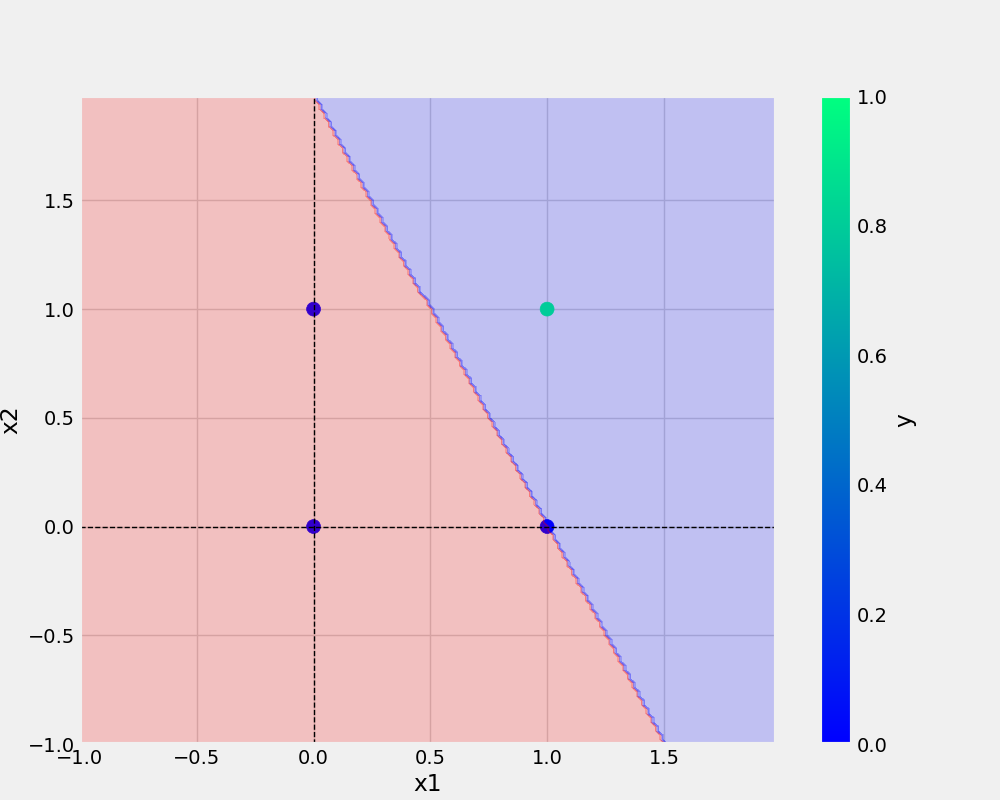
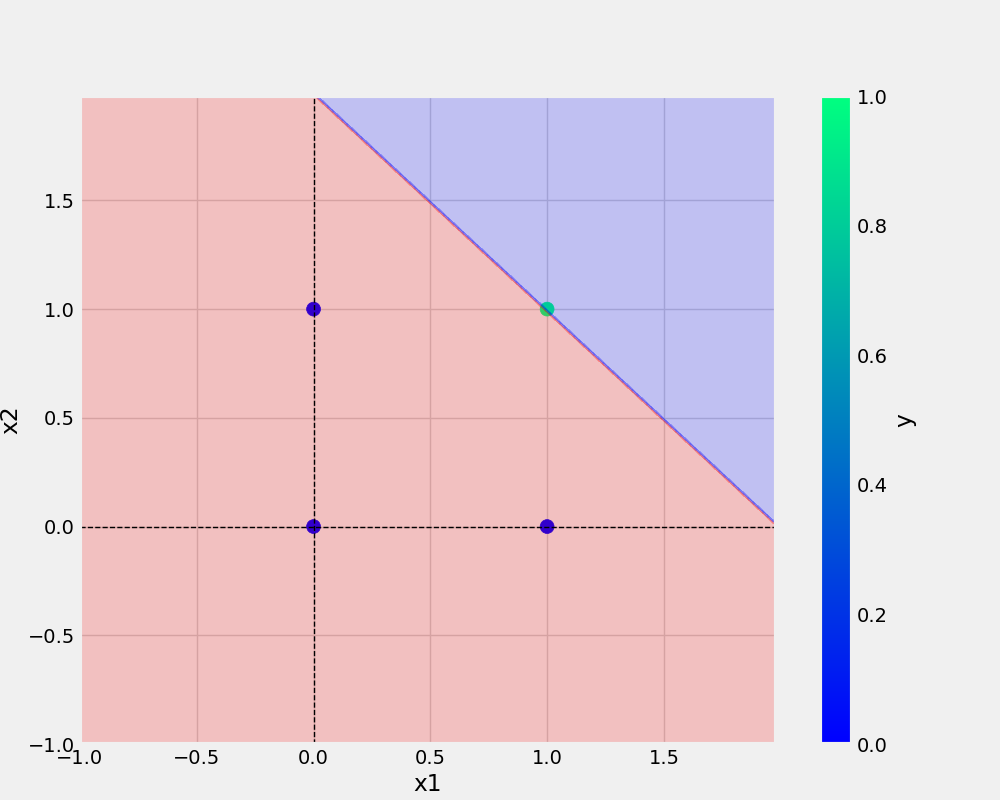
logging added and progress bar done

Changed region(s): [[0.31, 0.125, 0.775, 0.9375]]

diff --git a/utils/all_utils.py b/utils/all_utils.py
@@ -3,7 +3,7 @@ import numpy as np
 import joblib  # FOR SAVING MY MODEL AS A BINARY FILE
 from matplotlib.colors import ListedColormap
 import os
-
+import logging
 
 plt.style.use("fivethirtyeight")
 
@@ -15,6 +15,7 @@ def prepare_data(df):
     Returns:
         tuple: it returns the tuples of dependent variables and independent variables
     """
+    logging.info("Preparing the data by segregating the independent and dependent variables")
     x = df.drop("y", axis=1)
     y = df["y"]
     return x, y
@@ -26,10 +27,13 @@ def save_model(model, filename):
         model (python object): trained model to
         filename (str): path to save the trained model
     """
+    logging.info("saving the trained model")
     model_dir = "models"
     os.makedirs(model_dir, exist_ok=True)  # ONLY CREATE IF MODEL_DIR DOES NOT EXISTS
     filepath = os.path.join(model_dir, filename)  # model/filename
     joblib.dump(model, filepath)
+    logging.info(f"saved the trained model {filepath}")
+
 
 
 def save_plot(df, file_name, model):
@@ -39,6 +43,7 @@ def save_plot(df, file_name, model):
     :param model: trained model
     """
     def _create_base_plot(df):
+        logging.info("creating the base plot")
         df.plot(kind="scatter", x="x1", y="x2", c="y", s=100, cmap="winter")
         plt.axhline(y=0, color="black", linestyle="--", linewidth=1)
         plt.axvline(x=0, color="black", linestyle="--", linewidth=1)
@@ -46,6 +51,7 @@ def save_plot(df, file_name, model):
         figure.set_size_inches(10, 8)
 
     def _plot_decision_regions(X, y, classifier, resolution=0.02):
+        logging.info("plotting the decision regions")
         colors = ("red", "blue", "lightgreen", "gray", "cyan")
         colormap = ListedColormap(colors[: len(np.unique(y))])
 
@@ -57,8 +63,6 @@ def save_plot(df, file_name, model):
 
         xx1, xx2 = np.meshgrid(np.arange(x1_min, x1_max, resolution),
                                np.arange(x2_min, x2_max, resolution))
-        print(xx1)
-        print(xx1.ravel())
         Z = classifier.predict(np.array([xx1.ravel(), xx2.ravel()]).T)
         Z = Z.reshape(xx1.shape)
         plt.contourf(xx1, xx2, Z, alpha=0.2, cmap=colormap)
@@ -72,3 +76,4 @@ def save_plot(df, file_name, model):
     os.makedirs(plot_dir, exist_ok=True)  # ONLY CREATE IF MODEL_DIR DOES NOT EXISTS
     plotPath = os.path.join(plot_dir, file_name)  # model/filename
     plt.savefig(plotPath)
+    logging.info(f"saving the plot at {plotPath}")

diff --git a/utils/model.py b/utils/model.py
@@ -1,10 +1,11 @@
 import numpy as np
-
+import logging
+from tqdm import tqdm
 
 class Perceptron:
   def __init__(self, eta, epochs):
     self.weights = np.random.randn(3) * 1e-4 # SMALL WEIGHT INIT
-    print(f"initial weights before training: \n{self.weights}")
+    logging.info(f"initial weights before training: \n{self.weights}")
     self.eta = eta # LEARNING RATE
     self.epochs = epochs 
 
@@ -18,20 +19,20 @@ class Perceptron:
     self.y = y
 
     X_with_bias = np.c_[self.X, -np.ones((len(self.X), 1))] # CONCATINATION
-    print(f"X with bias: \n{X_with_bias}")
+    logging.info(f"X with bias: \n{X_with_bias}")
 
-    for epoch in range(self.epochs):
-      print("--"*10)
-      print(f"for epoch: {epoch}")
-      print("--"*10)
+    for epoch in tqdm(range(self.epochs), total=self.epochs, desc="training the model"):
+      logging.info("--"*10)
+      logging.info(f"for epoch: {epoch}")
+      logging.info("--"*10)
 
       y_hat = self.activationFunction(X_with_bias, self.weights) # foward propagation
-      print(f"predicted value after forward pass: \n{y_hat}")
+      logging.info(f"predicted value after forward pass: \n{y_hat}")
       self.error = self.y - y_hat
-      print(f"error: \n{self.error}")
+      logging.info(f"error: \n{self.error}")
       self.weights = self.weights + self.eta * np.dot(X_with_bias.T, self.error) # backward propagation
-      print(f"updated weights after epoch:\n{epoch}/{self.epochs} : \n{self.weights}")
-      print("#####"*10)
+      logging.info(f"updated weights after epoch:\n{epoch}/{self.epochs} : \n{self.weights}")
+      logging.info("#####"*10)
 
 
   def predict(self, X):
@@ -40,5 +41,5 @@ class Perceptron:
 
   def total_loss(self):
     total_loss = np.sum(self.error)
-    print(f"total loss: {total_loss}")
+    logging.info(f"total loss: {total_loss}")
     return total_loss

diff --git a/or.py b/or.py
@@ -1,11 +1,24 @@
+"""
+author: Kunal Kaushik
+email: kunal.kaushik1982@gmail.com
+"""
+
+
 from utils.model import Perceptron
 from utils.all_utils import prepare_data, save_plot, save_model
 import pandas as pd
+import logging
+import os
+
+logging_str = "[%(asctime)s: %(levelname)s: %(module)s] %(message)s"
+log_dir = "logs"
+os.makedirs(log_dir, exist_ok=True)
+logging.basicConfig(filename= os.path.join(log_dir,"running_logs.log"),level=logging.INFO, format=logging_str, filemode="a")
 
 
 def main(data, modelName, plotName, eta, epochs):
     df = pd.DataFrame(data)
-    print(df)
+    logging.info(f"This is actual dataframe{df}")
     X, y = prepare_data(df)
     model = Perceptron(eta=eta, epochs=epochs)
     model.fit(X, y)
@@ -21,5 +34,11 @@ if __name__ == '__main__':
         "y": [0,1,1,1],
     }
     ETA = 0.3 # 0 and 1
-    EPOCHS = 10
-    main(data=OR, modelName="or.model", plotName="or.png", eta=ETA, epochs=EPOCHS)
+    EPOCHS = 100
+    try:
+        logging.info(">>>>> starting training >>>>>")
+        main(data=OR, modelName="or.model", plotName="or.png", eta=ETA, epochs=EPOCHS)
+        logging.info("<<<<< training done successfully<<<<<\n")
+    except Exception as e:
+        logging.exception(e)
+        raise e

diff --git a/README.md b/README.md
@@ -7,3 +7,7 @@ oneNeuron | perceptron
 ```bash
 git add . && git commit -m "docstring updated" && git push origin main
 ```
+
+```bash
+cp Research\ notebooks/demo.ipynb .
+```
